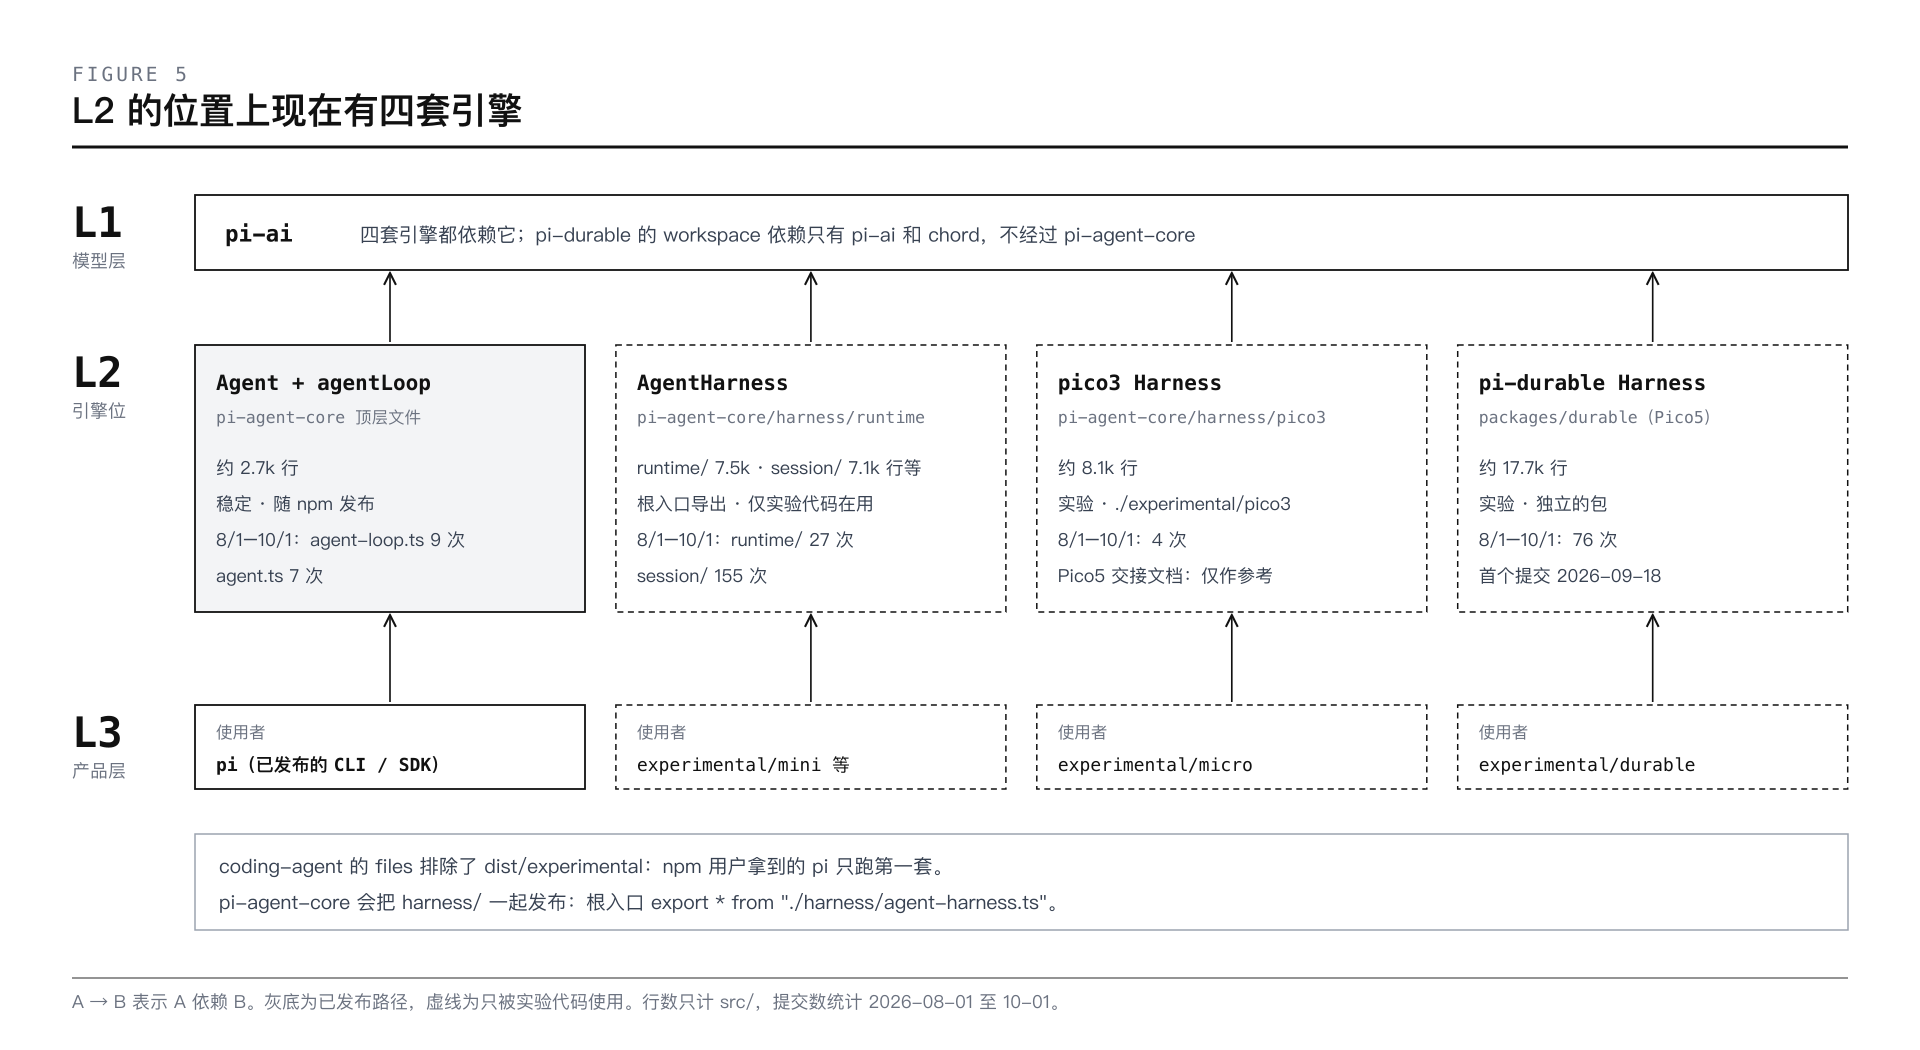
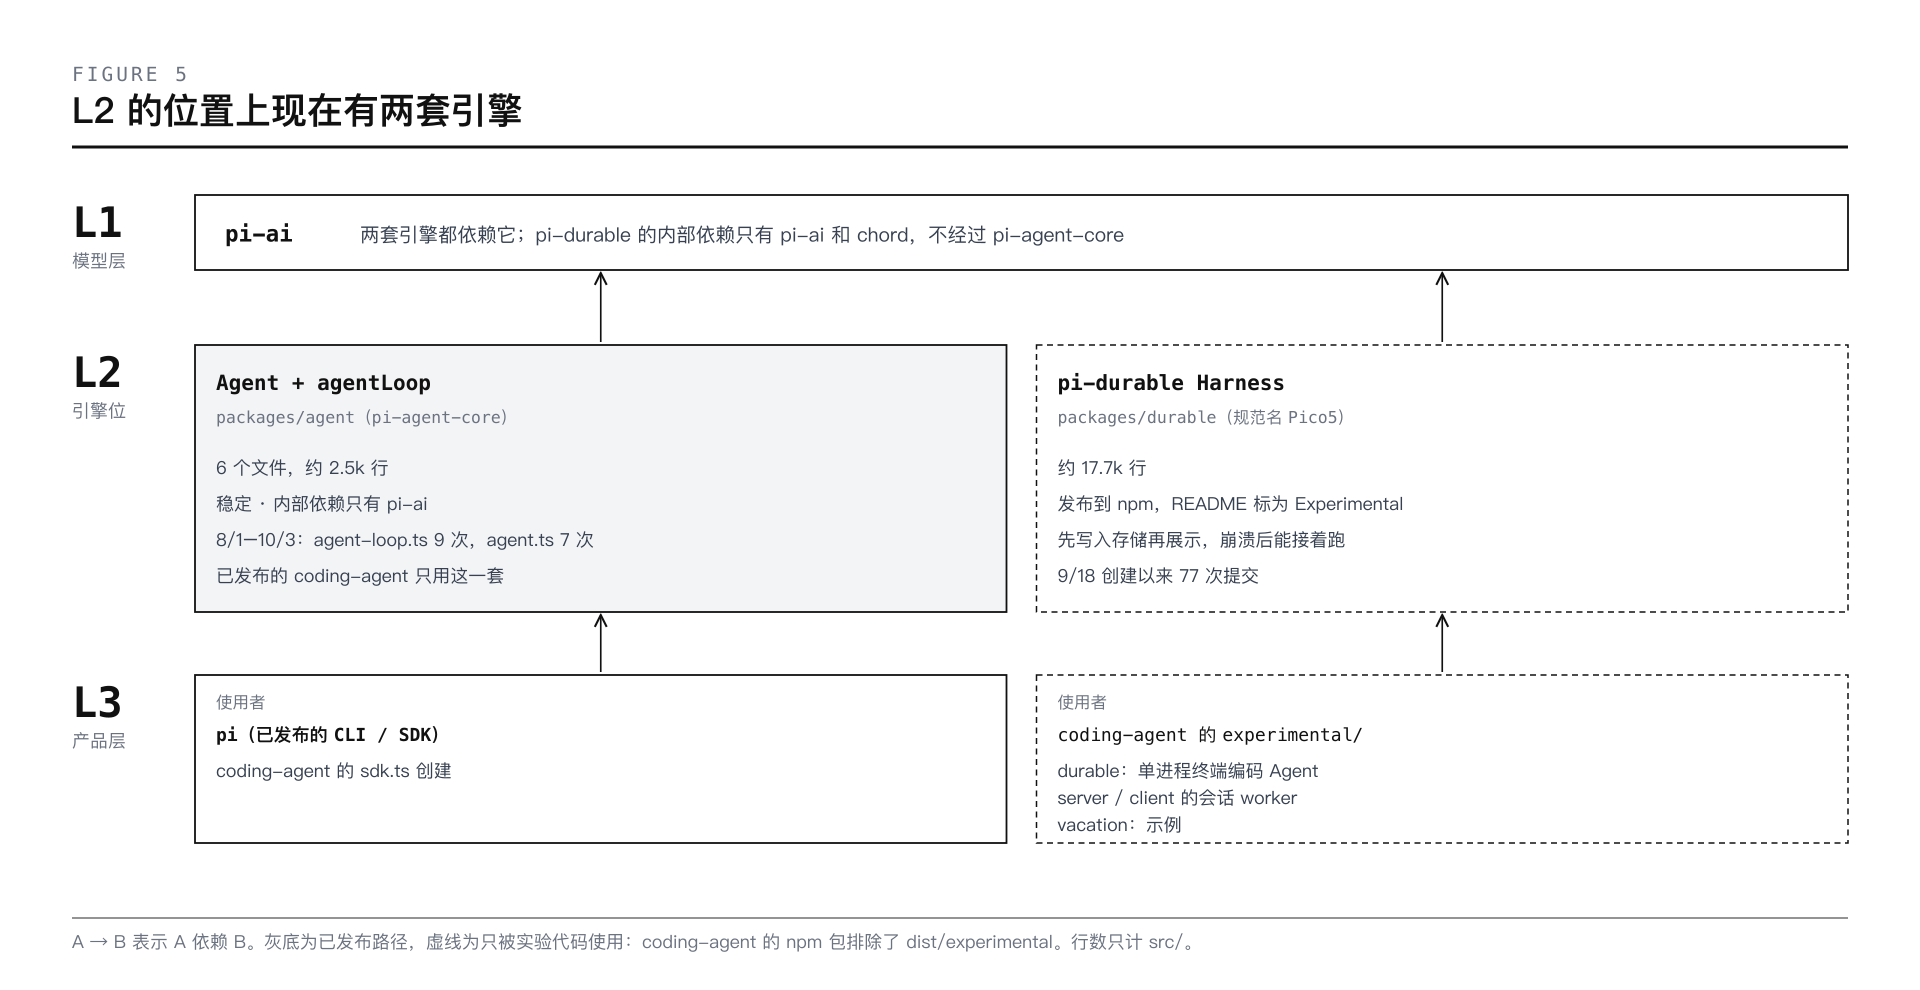
fix: Harness/Pi 修订第一至三章（第二章按 a276dabe5 重新核对，更新 L2 引擎现状） (#17)

diff --git a/content/harness/pi/02-three-layers.md b/content/harness/pi/02-three-layers.md
@@ -8,7 +8,7 @@ tags:
   - 源码分析
 ---
 
-> **版本基线**：`earendil-works/pi` main 分支 `v0.99.2-23-g0c453048b`（2026-10-01），commit `0c453048b`。文中所有架构、数字和代码均以该版本源码为准。
+> **版本基线**：`earendil-works/pi` main 分支 `v1.0.0-25-ga276dabe5`（2026-10-03），commit `a276dabe5`。文中所有架构、数字和代码均以该版本源码为准。
 
 第一章画出了 Pi 的骨架：L1 `pi-ai` 调模型，L2 `pi-agent-core` 跑循环，L3 `pi-coding-agent` 做产品，依赖只朝下。本章接着往下讲，打开层与层之间的接口，看看这三层具体是怎么接起来的。
 
@@ -19,7 +19,7 @@ tags:
 - **规则靠 CI 守住**：每个公开包在运行时 import 的包，都必须写在自己的 `package.json` 依赖里，CI 会检查这一点。
 - **接口很窄**：coding-agent 自己的逻辑只用到 agent-core 的 3 个值；agent-core 的核心部分只借用 pi-ai 的纯函数，调模型这件事交给外部注入的函数。
 - **类型逐层加料，从不改下层**：工具、消息、事件三条类型线，各用一种扩展手法。
-- **L2 在演进**：除了现在发布的 `Agent`，同一个位置上还有三套新引擎在并行开发。它们同样遵守"只朝下依赖"。
+- **L2 在演进**：除了现在发布的 `Agent`，同一个位置上还有一套持久化引擎 `pi-durable` 在开发。它同样遵守"只朝下依赖"。
 
 ---
 
@@ -29,7 +29,7 @@ tags:
 
 第一章说过，下层不知道上层的存在。在代码里搜一遍可以确认：pi-ai 里找不到 agent-core 和 coding-agent，agent-core 里找不到 coding-agent，连类型导入都没有。
 
-这条规则由 CI 保证。根目录的 `npm run check` 串了九步检查，CI 和发布前都会运行，其中三步跟架构有关：
+这条规则由 CI 保证。根目录的 `npm run check` 串了八步检查，CI 和发布前都会运行，其中三步跟架构有关：
 
 - **runtime-deps（守方向）**：扫描每个公开包的源码，凡是运行时用到的 import，被导入的包都必须写在这个包的 `dependencies`、`peerDependencies` 或 `optionalDependencies` 里（开发依赖不算）。pi-ai 唯一的内部依赖是 `pi-telemetry`，所以它在运行时 import 不了 agent-core。
 - **entry-graphs（守入口体积）**：给重要的导出入口设预算。例如 pi-ai 的 `./models` 入口最多只能牵连 15 个文件，而且不能碰到供应商实现。脚本开头的注释是这样说的："Entry points are cost contracts"。
@@ -76,7 +76,7 @@ export const VIRTUAL_MODULES: Record<string, unknown> = {
 
 ### 2.2 L2 → L1：只借纯函数，不调模型
 
-agent-core 的核心部分（顶层几个文件，不含 `harness/` 目录）从 pi-ai 借用的都是不涉及网络的工具函数：
+agent-core 只有 6 个文件：`Agent`、循环、代理流和类型。它唯一的内部依赖是 pi-ai，借用的都是不涉及网络的工具函数：
 
 - `normalizeContext`（把系统提示词和工具列表折叠成开头的一条 system 消息，得到供应商能接收的上下文）
 - `validateToolArguments`（按工具的参数 schema 校验并修正模型给出的参数）
@@ -246,7 +246,7 @@ const agent = new Agent({
 
 - `streamFn`（模型调用函数）：交给 coding-agent 的模型运行时，它负责认证和自定义模型
 - `convertToLlm`（消息转换）：就是 3.2 节的转换函数，可以按设置屏蔽图片
-- `transformContext`（请求前改写上下文）：交给扩展的 `context` 事件
+- `transformContext`（请求前改写上下文）：交给扩展的上下文事件。先是 `context`，处理函数只看到对话消息，system 消息由 pi 还原；再是 `context_with_system`，处理函数看到含 system 消息的完整列表，返回值原样使用
 - `onPayload` / `onResponse` / `onProviderStreamEvent`（请求发出前、收到 HTTP 响应头时、收到供应商的原始流事件时）：分别交给扩展的 `before_provider_request`、`after_provider_response`、`provider_stream_event` 事件
 
 注意 `tools: []` 和 `systemPrompt: ""`：这时工具和提示词都还没定，要等扩展加载完才知道。
@@ -257,7 +257,7 @@ const agent = new Agent({
 |---|---|
 | `beforeToolCall` / `afterToolCall`（工具执行前 / 后） | 派发扩展的 `tool_call`（可拦截）和 `tool_result`（可改结果）事件 |
 | `prepareNextTurnWithContext`（下一轮开始前） | 需要时先压缩，再重建系统提示词和工具列表 |
-| `prepareRequest`（每次请求前） | 从会话树重新算出这次请求的上下文；超过阈值时先压缩 |
+| `prepareRequest`（每次请求前） | 从会话树重新算出这次请求的上下文；用的是虚拟模型时，先路由到具体模型，超过那个模型的阈值就先压缩 |
 | `finishTurn`（一轮结束时） | 派发扩展的 `turn_end` 事件，扩展可以要求继续跑 |
 | `transformContext`（再包两层） | 按工具 `prepareLoadout` 的要求隐藏部分工具声明；扩展在 `before_agent_start` 里返回了提示词时，用它替换整段系统提示词 |
 
@@ -277,22 +277,24 @@ this._emit(event.type === "agent_end" ? { ...event, willRetry: this._willRetryAf
 
 ---
 
-## 5 · L2 在演进：同一个位置上的多套实现
+## 5 · L2 在演进：另一套持久化引擎
 
-![图 5 · L2 的位置上现在有四套引擎](/images/harness/pi/ch02/fig5-engines.png)
+![图 5 · L2 的位置上现在有两套引擎](/images/harness/pi/ch02/fig5-engines.png)
 
-前面讲的都是现在发布出去的 `pi` 所用的引擎。在仓库里，L2 这个位置上还有三套新引擎在并行开发：
+前面讲的都是现在发布出去的 `pi` 所用的引擎。在仓库里，L2 这个位置上还有一套新引擎在开发：
 
-1. **`Agent`（当前发布的引擎）**：约 2.7k 行，就是前四节讲的内容。
-2. **`AgentHarness`（会话化的引擎接口）**：位于 agent-core 的 `harness/` 目录。这个目录里还有一套自己的会话存储、压缩，以及 bash/read/edit/write 工具。它已经从 agent-core 的根入口导出，目前由 coding-agent 实验目录里的 mini（拆成多进程的小型编码 Agent）等使用。
-3. **pico3**：同样在 `harness/` 目录下，约 8.1k 行，由实验目录里的 micro（单进程的小型编码 Agent）使用。
-4. **`pi-durable`（持久化引擎，规范里叫 Pico5）**：独立的包，约 17.7k 行。第一章把它归在实验区；从依赖关系看，它占的正是 L2 的位置。它的 README 是这样介绍的："Conversations, model turns, tool calls, and your own state are committed to storage before anything is shown." 也就是说，消息、模型输出、工具调用和你的状态，都先写入存储再展示。进程中途崩溃，重新打开就能接着跑。它的设计文档把 pico3 当作参考材料。
+1. **`Agent`（当前发布的引擎）**：agent-core 的 6 个文件，约 2.5k 行，就是前四节讲的内容。
+2. **`pi-durable`（持久化引擎，规范里叫 Pico5）**：独立的包，约 17.7k 行，已经发布到 npm，README 开头标着 "Experimental"（API 会在版本之间不经通知地变化）。README 是这样介绍它的："Conversations, model turns, tool calls, and your own state are committed to storage before anything is shown." 也就是说，消息、模型输出、工具调用和你的状态，都先写入存储再展示。进程中途崩溃，重新打开就能接着跑。
 
-这四套引擎有一个共同点：**都只往下依赖 pi-ai，没有一套依赖 coding-agent**。三层结构对它们同样成立，在变的只是 L2 的实现。其中 `pi-durable` 甚至不依赖 agent-core，内部依赖只有 pi-ai 和 `chord`（第一章提到的基础库）。
+两套引擎有一个共同点：**都只往下依赖 pi-ai，都不依赖 coding-agent**。三层结构对它们同样成立，在变的只是 L2 的实现。`pi-durable` 也不依赖 agent-core，内部依赖只有 pi-ai 和 `chord`（第一章提到的基础库）。
 
-从 2026-08-01 到 2026-10-01 的提交可以看出开发重心在哪里：`agent-loop.ts` 有 9 次提交，`harness/` 有 235 次，`pi-durable` 从 2026-09-18 创建以来有 76 次。2026-10-01 新增的提交还在 coding-agent 的实验目录里，用 `pi-durable` 搭了一个能用的终端编码 Agent。
+从 2026-08-01 到 2026-10-03 的提交可以看出开发重心在哪里：`agent-loop.ts` 只有 9 次提交，`pi-durable` 从 2026-09-18 创建以来有 77 次（含 2 次发版提交）。coding-agent 的实验目录里已经有三处在用它：
 
-实验代码不会影响 npm 用户：coding-agent 发布时排除了 `experimental/` 目录，所以安装的 `pi` 只跑第一套引擎。agent-core 则会把 `harness/` 一起发布。
+- `experimental/durable`：单进程的终端编码 Agent
+- 实验性 server / client 的会话 worker：每个会话一个 `pi-durable` 实例
+- `experimental/vacation`：一个示例
+
+实验代码不会影响 npm 用户：coding-agent 发布时排除了 `experimental/` 目录，也没有把 `pi-durable` 列为依赖，所以安装的 `pi` 只跑 `Agent` 这一套引擎。
 
 > 💡 这种演进方式本身就得益于分层：新引擎只要满足"往下依赖 pi-ai、往上接 coding-agent"，就能在实验目录里和现有引擎并行开发，不用动已发布的路径。本系列接下来的 Agent Loop、工具、事件章节讲的是当前发布的 `Agent`；新引擎稳定之后再单独成章。
 
@@ -349,11 +351,11 @@ export const agent = new Agent({
 | coding-agent 自身从 agent-core 导入的运行时值 | 3 个，另有 1 处整包导入交给扩展 |
 | coding-agent 中运行时直接导入 pi-ai 的文件（不含实验目录） | 26 个 |
 | 反向依赖（包括类型导入） | 0 |
-| `npm run check` | 9 步，其中 3 步与架构有关 |
+| `npm run check` | 8 步，其中 3 步与架构有关 |
 | coding-agent 里引擎流转的消息种类 | 8 种（pi-ai 4 种 + 扩展 4 种） |
 | 事件种类 | L1 12 种 → L2 10 种 → L3 新增 13 种 |
 | AgentSession 构造时调用的钩子安装方法 | 6 个 |
-| L2 位置上的引擎 | 4 套（1 套已发布，3 套在实验代码中开发） |
+| L2 位置上的引擎 | 2 套（`Agent` 稳定发布；`pi-durable` 标为 Experimental，只有实验代码在用） |
 
 ---
 
@@ -367,7 +369,7 @@ export const agent = new Agent({
 | **`transformContext`** | 在 `convertToLlm` 之前运行，改写引擎消息列表，例如裁剪历史、注入上下文 |
 | **`wrapToolDefinition`** | 把 L3 的工具定义转成 L2 能执行的工具，丢掉提示词和渲染字段 |
 | **虚拟模块** | 扩展 import pi 的包时，解析到 coding-agent 自带的那一份 |
-| **AgentHarness / pi-durable** | L2 位置上正在开发的新引擎；pi-durable 先写入存储再展示，崩溃后能接着跑 |
+| **pi-durable** | L2 位置上的实验性持久化引擎；先写入存储再展示，崩溃后能接着跑 |
 
 ---
 
@@ -382,7 +384,7 @@ export const agent = new Agent({
 | 工具类型怎么转换 | `packages/coding-agent/src/core/tools/tool-definition-wrapper.ts` |
 | 自定义消息怎么转换 | `packages/coding-agent/src/core/messages.ts` → `convertToLlm` |
 | 引擎的请求顺序 | `packages/agent/src/agent-loop.ts` → `streamAssistantResponse` |
-| 三条类型线的定义 | `packages/ai/src/types.ts`；`packages/agent/src/types.ts`；`packages/coding-agent/src/core/extensions/types.ts` |
-| 新引擎 | `packages/agent/src/harness/`；`packages/durable/README.md`；`packages/durable/docs/pico-v5.md` |
+| 三条类型线的定义 | `packages/ai/src/types.ts`；`packages/agent/src/types.ts`；`packages/coding-agent/src/core/extensions/types.ts`（`ToolDefinition`）；`packages/coding-agent/src/core/agent-session.ts`（`AgentSessionEvent`）；`packages/coding-agent/src/core/messages.ts`（声明合并） |
+| 新引擎 | `packages/durable/README.md`；`packages/durable/docs/spec.md`；`packages/coding-agent/src/experimental/durable/` |
 
 **下一章**：深入当前发布的引擎，看 `agent-loop.ts` 的双层循环、插队消息与后续消息，以及工具的串行与并行执行。

diff --git a/content/harness/pi/03-agent-loop.md b/content/harness/pi/03-agent-loop.md
@@ -25,7 +25,7 @@ tags:
 
 ## 0 · 阅读说明
 
-- 本章只讲当前发布的引擎：`Agent` 类和 `agentLoop()` 系列函数。第二章提到的 `harness/` 和 `pi-durable` 两套新引擎不在本章范围内。
+- 本章只讲当前发布的引擎：`Agent` 类和 `agentLoop()` 系列函数。第二章第 5 节提到的实验引擎不在本章范围内。
 - 文中的事件顺序都用一个探针脚本实际跑过。脚本用一个假的 `streamFn` 按剧本返回助手消息，订阅 `Agent` 的事件并记录钩子的调用时刻。本章引用的运行记录都来自这个脚本。
 - 后文说的"一轮"（turn），指一次模型请求加上这条回复里所有工具调用的执行，和 `turn_start` / `turn_end` 两个事件对应。
 
@@ -218,7 +218,7 @@ convertToLlm
 streamFn#1
 ```
 
-> 💡 `prepareRequest` 和 `transformContext` 都能改上下文，作用范围不同：`prepareRequest` 返回的上下文会替换循环里保存的那一份，影响之后的所有请求；`transformContext` 的结果只用于这一次请求，循环里保存的上下文不变。第二章讲过 coding-agent 怎么用它们：前者从会话树重新算出上下文，后者交给扩展的 `context` 事件。
+> 💡 `prepareRequest` 和 `transformContext` 都能改上下文，作用范围不同：`prepareRequest` 返回的上下文会替换循环里保存的那一份，影响之后的所有请求；`transformContext` 的结果只用于这一次请求，循环里保存的上下文不变。第二章讲过 coding-agent 怎么用它们：前者从会话树重新算出上下文，后者交给扩展的上下文事件（先是 `context`，再是 `context_with_system`）。
 
 > 📌 `convertToLlm` 要保留 `system` 消息。提示词和工具声明都放在 system 消息里，`Agent` 默认的转换函数会保留 `system`、`user`、`assistant`、`toolResult` 四种角色。自己写转换函数时，如果把 `system` 也过滤掉，模型就看不到提示词和工具声明了。
 
